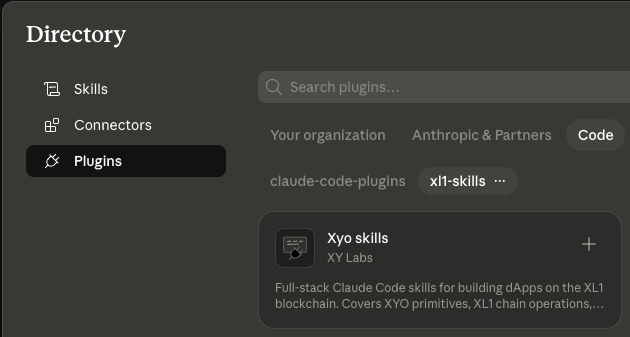
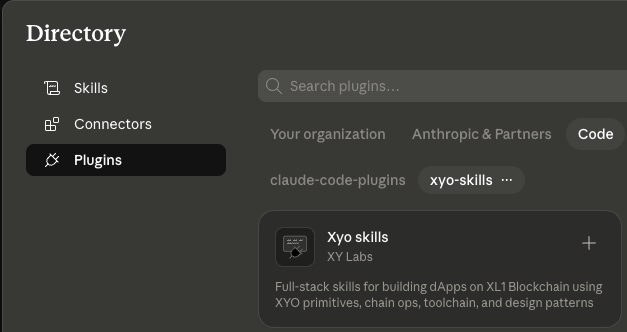
docs: drop Claude Code branding from skill descriptions and refresh install screenshot (#20)
Make plugin and marketplace descriptions platform-agnostic ("agent skills"
instead of "Claude Code skills") so the same copy reads correctly across
Claude Code, Codex, Skills.sh, and other agent ecosystems. Update the
install walkthrough to reference the renamed `xyo-skills` marketplace pill
and replace the directory screenshot with the post-rename capture.

diff --git a/README.md b/README.md
@@ -63,9 +63,9 @@ The `/plugin` slash commands aren't available in the Claude Code desktop app —
 
    ![Add marketplace URL dialog](docs/images/claude/install/05-add-marketplace-url.png)
 
-6. In the plugin directory that opens, click the **Code** tab in the top row, then the **xl1-skills** marketplace pill in the second row. Find **Xyo skills** and click the **+** to install.
+6. In the plugin directory that opens, click the **Code** tab in the top row, then the **xyo-skills** marketplace pill in the second row. Find **Xyo skills** and click the **+** to install.
 
-   ![Navigate to Code → xl1-skills and install Xyo skills](docs/images/claude/install/06-install-from-directory.png)
+   ![Navigate to Code → xyo-skills and install Xyo skills](docs/images/claude/install/06-install-from-directory.png)
 
 ##### Claude Team Setup
 